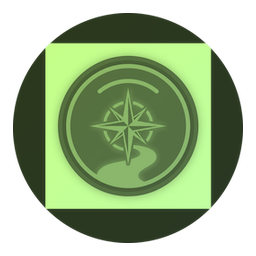
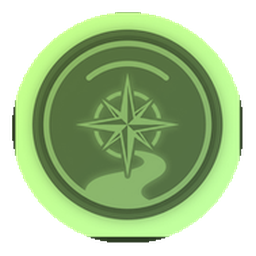
Re-mask the ladder badges so no straight edge survives
The badges read as framed squares in Discord, and the cause was not the outer
margin that the previous commit padded. Measured on the released artwork: the
bright ring around each emblem sits at r=81 along the axes but reaches r=114
along the diagonals. That ratio is sqrt(2) -- the signature of a square, not a
circle. The alpha silhouette was round the whole time, so the circle's edge had
a clean transparent margin and the margin assertion passed, while a square
plate painted *inside* the mask put four straight edges and four corners in the
middle of every badge.

Padding could never have fixed it: the square is inside the circle, not outside.

Ten of the 21 badges carry that plate (apprentice, ascended, deity, guardian,
guru, master, neophyte, pathfinder, titan, voyager). Each is now re-masked to a
disc at the plate's axis radius, which cuts the corners off and leaves the
artwork intact, then inset and re-padded as before. The other eleven already had
concentric circular artwork and are copied through untouched.

Detection is by the sqrt(2) signature and is deliberately narrow. A first
attempt treated any diagonal/axis ratio above 1.2 as a plate and cropped Mage to
r=60, discarding its outer ring -- its lit crystal scores 2.12, which is a
highlight, not a square. The check now only fires between 1.30 and 1.50, and
requires the plate to span at least 60% of the silhouette.

New test `no_badge_has_a_square_plate_inside_its_circle` decodes each embedded
[…]

diff --git a/apps/bot/src/ladder_icons.rs b/apps/bot/src/ladder_icons.rs
@@ -121,10 +121,33 @@ mod tests {
 
     /// The highest alpha in the outermost pixel ring of an 8-bit RGBA PNG.
     ///
-    /// Reconstructs every scanline through the PNG filters, because the filtered
-    /// bytes are deltas: reading alpha straight out of them would understate or
-    /// overstate the real value depending on what the encoder chose.
+    /// A thin wrapper over [`decode_rgba`] so the two checks that need pixels
+    /// share one decoder instead of drifting apart.
     fn edge_alpha(png: &[u8]) -> Option<u8> {
+        let (width, height, rgba) = decode_rgba(png)?;
+
+        let pixel_alpha = |x: usize, y: usize| rgba[(y * width + x) * 4 + 3];
+        let mut peak = 0u8;
+
+        for x in 0..width {
+            peak = peak.max(pixel_alpha(x, 0)).max(pixel_alpha(x, height - 1));
+        }
+        for y in 0..height {
+            peak = peak.max(pixel_alpha(0, y)).max(pixel_alpha(width - 1, y));
+        }
+
+        Some(peak)
+    }
+
+    /// Decode an 8-bit RGBA PNG to `(width, height, rgba bytes)`.
+    ///
+    /// Reconstructs every scanline through the PNG filters, because the filtered
+    /// bytes are deltas: reading a channel straight out of them would understate
+    /// or overstate the real value depending on what the encoder chose. Only
+    /// colour type 6 (RGBA) is accepted -- anything else means the artwork
+    /// pipeline changed and these checks need revisiting rather than silently
+    /// measuring the wrong bytes.
+    fn decode_rgba(png: &[u8]) -> Option<(usize, usize, Vec<u8>)> {
         let mut pos = 8; // skip the signature
         let mut width = 0usize;
         let mut height = 0usize;
@@ -168,7 +191,7 @@ mod tests {
         // Unfilter in place, scanline by scanline, as libpng/the spec describes.
         let mut prev = vec![0u8; stride];
         let mut cur = vec![0u8; stride];
-        let mut peak = 0u8;
+        let mut out = Vec::with_capacity(stride * height);
 
         for row in 0..height {
             let start = row * (stride + 1);
@@ -204,20 +227,11 @@ mod tests {
                 };
             }
 
-            // Only the outer ring matters: first and last row, and the first and last
-            // pixel of every row.
-            if row == 0 || row == height - 1 {
-                for x in 0..width {
-                    peak = peak.max(cur[x * bpp + 3]);
-                }
-            }
-            peak = peak.max(cur[3]);
-            peak = peak.max(cur[(width - 1) * bpp + 3]);
-
+            out.extend_from_slice(&cur);
             std::mem::swap(&mut prev, &mut cur);
         }
 
-        Some(peak)
+        Some((width, height, out))
     }
 
     /// zlib inflate, using nothing but the standard library.
@@ -244,6 +258,104 @@ mod tests {
             .read_to_end(&mut out)
             .ok()?;
         Some(out)
+    }
+
+    /// No badge may carry a square plate inside its circle.
+    ///
+    /// This is the defect the outer-margin check could not see. Measured on the
+    /// first release: the bright ring around the artwork sat at r=81 along the
+    /// axes but r=114 along the diagonals -- a ratio of sqrt(2), which is the
+    /// signature of a square, not a circle. The alpha mask was round, so the
+    /// canvas had no opaque edge pixels and the margin assertion passed, while
+    /// the plate's four corners were plainly visible inside the badge.
+    ///
+    /// A circle gives a ratio of 1.0 whatever its radius; a square plate gives
+    /// 1.414. The window is centred on sqrt(2) rather than set to "anything
+    /// above 1.2" because a bright patch in the middle of a glyph also scores
+    /// high (one badge measured 2.12) and must not be reported as a plate.
+    #[test]
+    fn no_badge_has_a_square_plate_inside_its_circle() {
+        for rung in iam::domain::leveling::LADDER.iter() {
+            let bytes = badge(rung.name)
+                .map(|b| b.png)
+                .unwrap_or_else(|| panic!("{} has no embedded badge", rung.name));
+
+            // `None` means the badge has no bright outer band to measure -- it is
+            // composed differently, not defective. Failing on that would make the
+            // check reject a perfectly round badge for lacking a rim, which is what
+            // it did to Visionary on the first run.
+            let Some(ratio) = plate_squareness(bytes) else {
+                continue;
+            };
+
+            // Centred on sqrt(2) rather than "anything above 1.2": a bright patch
+            // inside a glyph also scores high -- Mage measures 2.12 on its lit
+            // crystal -- and reporting that as a plate would fail a badge whose
+            // silhouette is a perfect circle.
+            let square_plate = (1.30..=1.50).contains(&ratio);
+            assert!(
+                !square_plate,
+                "{}: the artwork is a square plate (diagonal/axis reach = {ratio:.2}, \
+                 where a circle is 1.00 and a square is 1.41). The plate's corners are \
+                 what reads as a frame in Discord. Re-mask the artwork to a circle.",
+                rung.name
+            );
+        }
+    }
+
+    /// How square the artwork's outer bright band is: its reach along the
+    /// diagonals divided by its reach along the axes.
+    ///
+    /// 1.0 is a circle, sqrt(2) is a square. Returns `None` when no bright band
+    /// is found at all, which means the badge is composed differently and this
+    /// check does not apply.
+    fn plate_squareness(png: &[u8]) -> Option<f32> {
+        let (width, height, rgba) = decode_rgba(png)?;
+        let centre_x = width as f32 / 2.0;
+        let centre_y = height as f32 / 2.0;
+        let limit = width / 2 + 1;
+
+        let reach = |degrees: f32| -> Option<usize> {
+            let radians = degrees.to_radians();
+            let mut found = None;
+            for radius in 1..limit {
+                let x = (centre_x + radius as f32 * radians.cos()) as usize;
+                let y = (centre_y + radius as f32 * radians.sin()) as usize;
+                if x >= width || y >= height {
+                    break;
+                }
+                let offset = (y * width + x) * 4;
+                let (r, g, b, a) = (
+                    rgba[offset],
+                    rgba[offset + 1],
+                    rgba[offset + 2],
+                    rgba[offset + 3],
+                );
+                // The plate's rim: opaque and bright. The surrounding glow is
+                // dimmer, so a luminance floor separates the two.
+                if a > 200 && (u32::from(r) + u32::from(g) + u32::from(b)) / 3 > 150 {
+                    found = Some(radius);
+                }
+            }
+            found
+        };
+
+        let axes: Vec<usize> = [0.0, 90.0, 180.0, 270.0]
+            .iter()
+            .filter_map(|d| reach(*d))
+            .collect();
+        let diagonals: Vec<usize> = [45.0, 135.0, 225.0, 315.0]
+            .iter()
+            .filter_map(|d| reach(*d))
+            .collect();
+
+        if axes.is_empty() || diagonals.is_empty() {
+            return None;
+        }
+
+        let axis_min = *axes.iter().min()? as f32;
+        let diagonal_max = *diagonals.iter().max()? as f32;
+        Some(diagonal_max / axis_min.max(1.0))
     }
 
     #[test]
